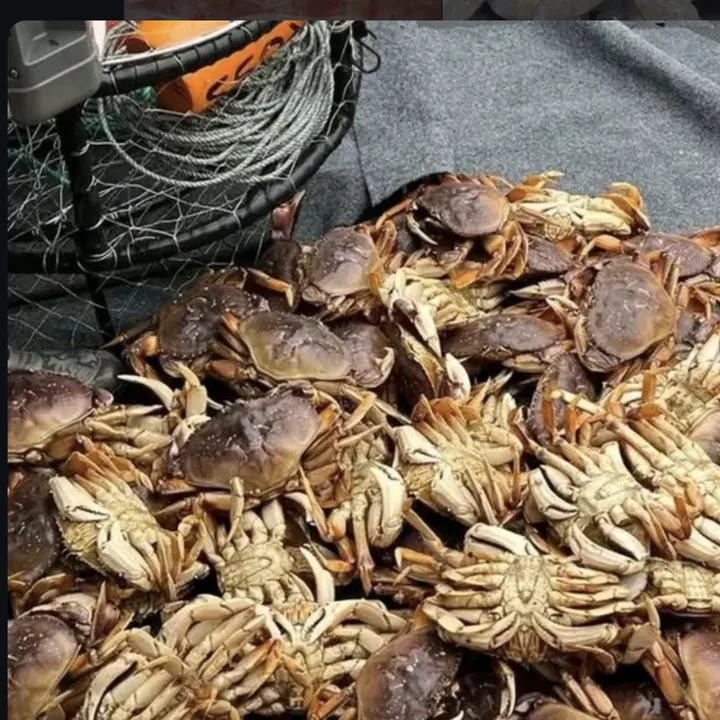
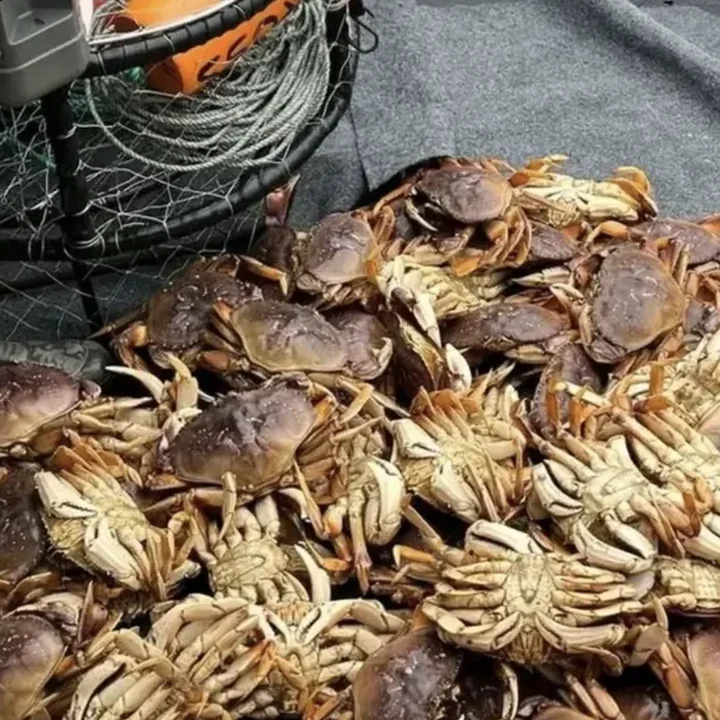
Shop by type: real Instagram photos on every card, each linked to its post; trim screenshot edges
Claude-Session: https://claude.ai/code/session_01XkVdwEuAGN4pEEQ3Tjr2eU

diff --git a/index.html b/index.html
@@ -252,18 +252,19 @@ button{cursor:pointer}
 .shop-tabs button:hover{color:var(--ink)}
 .shop-track{display:flex;gap:18px;overflow-x:auto;scroll-snap-type:x mandatory;scrollbar-width:none;padding:22px max(20px,calc((100vw - 1180px)/2)) 30px;scroll-padding-left:max(20px,calc((100vw - 1180px)/2))}
 .shop-track::-webkit-scrollbar{display:none}
-.pcard{flex:none;width:230px;scroll-snap-align:start;background:#fff;border-radius:14px;padding:18px 16px 18px;display:grid;grid-template-rows:auto auto 1fr auto;gap:4px;text-align:center;position:relative;transition:box-shadow .3s ease,transform .3s var(--ease)}
+.pcard{flex:none;width:250px;scroll-snap-align:start;background:#fff;border-radius:10px;overflow:hidden;display:flex;flex-direction:column;text-align:left;position:relative;transition:box-shadow .3s ease,transform .3s var(--ease)}
 .pcard:hover{box-shadow:0 18px 40px rgba(19,32,46,.12);transform:translateY(-3px)}
-.pc-plate{height:160px;display:grid;place-items:center;margin-bottom:12px;position:relative}
-.pc-plate::before{content:"";position:absolute;width:150px;height:150px;border-radius:50%;background:var(--frost)}
-.pc-plate img{position:relative;max-width:100%;max-height:150px;object-fit:contain;filter:drop-shadow(0 12px 10px rgba(19,32,46,.18));transition:transform .45s var(--ease)}
-.pc-plate.photo img{width:150px;height:150px;border-radius:50%;object-fit:cover;filter:none}
-.pcard:hover .pc-plate img{transform:scale(1.06) rotate(-2deg)}
+.pc-photo{display:block;aspect-ratio:1/1;overflow:hidden;background:var(--frost);position:relative}
+.pc-photo img{width:100%;height:100%;object-fit:cover;display:block;transition:transform .7s var(--ease)}
+.pcard:hover .pc-photo img{transform:scale(1.05)}
+.pc-body{flex:1;display:flex;flex-direction:column;gap:3px;padding:14px 16px 16px}
 .pcard h3{font-size:16.5px;font-weight:600;margin:0;line-height:1.25}
 .pc-unit{font-size:13px;color:var(--muted)}
-.pc-tag{position:absolute;top:12px;left:12px;font-size:11.5px;font-weight:600;background:var(--band);color:var(--ink);padding:3px 8px;border-radius:4px;z-index:1}
+.pc-src{font-size:12px;color:var(--muted);text-decoration:none;margin-top:2px}
+.pc-src:hover{color:var(--sign);text-decoration:underline}
+.pc-tag{position:absolute;top:10px;left:10px;font-size:11.5px;font-weight:600;background:var(--band);color:var(--ink);padding:3px 8px;border-radius:4px;z-index:1}
 .pc-tag.out{background:var(--ice-2);color:var(--muted)}
-.pc-buy{display:flex;justify-content:space-between;align-items:center;gap:10px;margin-top:12px;text-align:left}
+.pc-buy{display:flex;justify-content:space-between;align-items:center;gap:10px;margin-top:auto;padding-top:14px}
 .pc-price{font-family:var(--f-display);font-weight:800;font-size:22px;line-height:1}
 .pc-price.ask{font-family:var(--f-body);font-weight:500;font-size:13.5px;color:var(--muted);line-height:1.3;max-width:9ch}
 .pc-price.hot{color:var(--shell-dk)}
@@ -1391,17 +1392,17 @@ function carryNav(){}
 
 /* ---------- shop by type ---------- */
 const SHOP_TABS=[["shell","Crab & lobster",["lobster","spiny","crab","dungeness"]],["shrimp","Shrimp & crawfish",["shrimp","tails","crawfish"]],["fish","Whole fish",["salmon","snapper","porgy","fish"]],["more","Oysters, squid & octopus",["oyster","squid","octopus"]],["all","Everything",null]];
-const SHOP_IMG={lobster:"img/p-lobster.webp",crab:"img/p-bluecrab.webp",dungeness:"img/p-dungeness.webp",crawfish:"img/p-crawfish.webp",shrimp:"img/p-shrimp.webp",tails:"img/p-redshrimp.webp",oyster:"img/p-oyster.webp",salmon:"img/p-salmon.webp",snapper:"img/p-snapper.webp",porgy:"img/p-porgy.webp",squid:"img/p-squid.webp",octopus:"img/p-octopus.webp"};
 let shopTab="shell";
 function shopCard(it,i){
-  const cut=SHOP_IMG[it.id],src=cut||(REAL[it.id]&&REAL[it.id].src)||it.img,out=it.status==="out";
+  const R=REAL[it.id]||{src:it.img,post:""},out=it.status==="out";
   const u=unitSel[it.id]||it.units[0].u,un=it.units.find(x=>x.u===u)||it.units[0],hot=un.hot&&!out;
   const tag=out?'<span class="pc-tag out">Sold out</span>':hot?'<span class="pc-tag">Special</span>':it.status==="limited"?'<span class="pc-tag">Going fast</span>':"";
   const qty=it.units.reduce((n,x)=>n+(cart[it.id+"|"+x.u]||0),0);
   const price=out?'<span class="pc-price ask">Sold out this week</span>':un.price?`<span class="pc-price${hot?" hot":""}">${esc(un.price.split(",")[0].replace(/ special/i,""))}<small>${esc(un.label.toLowerCase())}</small></span>`:`<span class="pc-price ask">Price on request</span>`;
-  return `<article class="pcard" data-sid="${it.id}" style="--i:${i}">${tag}<div class="pc-plate${cut?"":" photo"}"><img src="${src}" alt="${esc(it.name)}" loading="lazy"></div>
-    <h3>${esc(it.name)}</h3><span class="pc-unit">${it.units.map(x=>x.label.toLowerCase()).join(" · ")}</span>
-    <div class="pc-buy">${price}<button class="pc-add${qty?" in":""}" type="button"${out?" disabled":""} aria-label="Add ${esc(it.name)} to order">${out?"Sold out":qty?`In order (${qty}) +`:"Add"}</button></div></article>`;
+  const img=`<img src="${R.src}" alt="${esc(it.name)}, photographed by Overnight Tider" width="250" height="250" loading="lazy">`;
+  return `<article class="pcard" data-sid="${it.id}" style="--i:${i}">${tag}${R.post?`<a class="pc-photo" href="https://www.instagram.com/p/${R.post}/" target="_blank" rel="noopener" tabindex="-1" aria-hidden="true">${img}</a>`:`<div class="pc-photo">${img}</div>`}
+    <div class="pc-body"><h3>${esc(it.name)}</h3><span class="pc-unit">${it.units.map(x=>x.label.toLowerCase()).join(" · ")}</span>${R.post?`<a class="pc-src" href="https://www.instagram.com/p/${R.post}/" target="_blank" rel="noopener">Our photo, see the post</a>`:`<span class="pc-src">Our photo</span>`}
+    <div class="pc-buy">${price}<button class="pc-add${qty?" in":""}" type="button"${out?" disabled":""} aria-label="Add ${esc(it.name)} to order">${out?"Sold out":qty?`In order (${qty}) +`:"Add"}</button></div></div></article>`;
 }
 function renderShop(anim){
   const t=$("shopTabs"),tr=$("shopTrack");if(!t)return;
